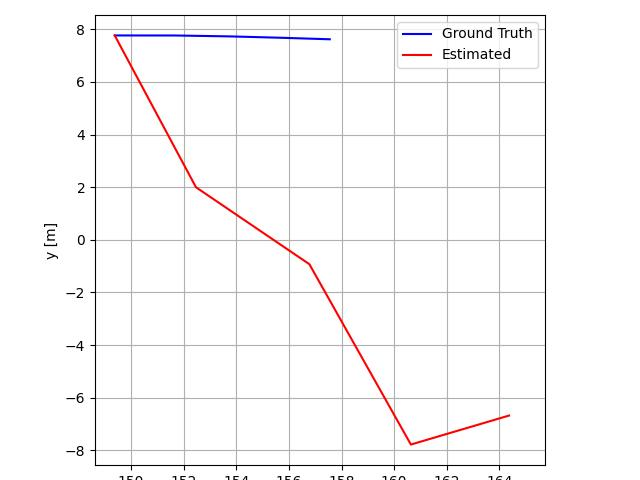
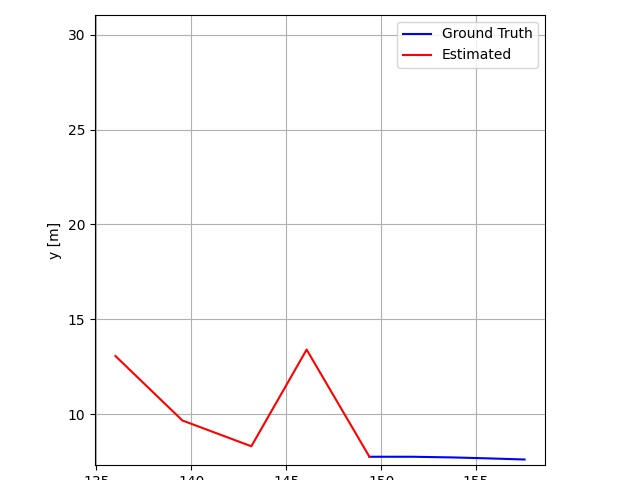
refactoring trajectory plotting

diff --git a/trajectoryPlotting.py b/trajectoryPlotting.py
@@ -8,20 +8,15 @@ from utils import *
 from parseData import *
 
 class Trajectory():
-    def __init__(self, timestamps, poses):
+    def __init__(self, timestamps, pose_transforms):
         '''
-        @param[in] timestamps np.ndarray of timestamps (N)
-        @param[in] poses np.ndarray of x,y,theta poses (N x 3)
+        @param[in] timestamps np.ndarray of sorted timestamps (N)
+        @param[in] pose_matrices np.ndarray of transformation matrices (N x 3 x 3)
         '''
+        assert timestamps.shape[0] == pose_transforms.shape[0], "first axis of timestamps and pose_transforms must be same length"
+
         self.timestamps = np.array(timestamps)
-        self.poses = np.array(poses)
-        x = self.poses[-1, 0]
-        y = self.poses[-1, 1]
-        theta = self.poses[-1, 2]
-        first_pose_matrix_gt = np.array([[np.cos(theta), -np.sin(theta), x],
-                                        [np.sin(theta), np.cos(theta), y],
-                                        [0, 0, 1]])
-        self.pose_matrix = np.array([first_pose_matrix_gt]) # N x 3 x 3
+        self.pose_transforms = np.array(pose_transforms)
     
     '''
     Ax_1 + b = x_0
@@ -41,24 +36,28 @@ class Trajectory():
     [010]
     [001]
     '''
-    def appendRelativePose(self, t, dist, theta):
+    def appendRelativePoseTransform(self, t, R, t):
         # Add to timestamps
         self.timestamps = np.append(self.timestamps, t)
+
+
         
         # not sure im computing p_{t+1} correctly given A, h
         # Get all the relevant transform variables
-        # print(f"theta: {transf_th:.04f}, dx: {transf_x:.04f}, dy: {transf_y:.04f}")
+        transf_th = float(np.arctan2(A[0,0], A[1,0]))
+        transf_x = float(h[0])
+        transf_y = float(h[1])
+        print(f"theta: {transf_th:.04f}, dx: {transf_x:.04f}, dy: {transf_y:.04f}")
 
         # Previous pose x y theta
         x, y, th = self.poses[-1,:]
         last_pose_matrix = self.pose_matrix[-1, :, :]
-
         new_transform = np.block([[A,               h],
-                                  [np.zeros((1,2)), np.ones((1,1))]])
-        new_pose_matrix = new_transform @ last_pose_matrix
+                                    [np.zeros((1,2)), np.ones((1,1))]])
+        new_pose_matrix = np.linalg.inv(new_transform) @ last_pose_matrix
         self.pose_matrix = np.concatenate((self.pose_matrix,
                                         np.expand_dims(new_pose_matrix, axis=0)),
-                                          axis = 0)
+                                            axis = 0)
         
         
         # Convert from relative pose wrt to current robot position to absolute pose
@@ -75,41 +74,32 @@ class Trajectory():
         self.poses = np.vstack((self.poses, np.array([x_p, y_p, th_p])))
 
         print(f"Time {t}: [{x_p:.2f},{y_p:.2f},{th_p:.2f}]")
-    
-    def getPoseAtTime(self, times):
-        '''
-        @brief Given timestamps, return the pose at that time using cubic interpolation
-        @param[in] t float or np.ndarray of timestamps
-        '''
-        try:
-            self.interpX = scipy.interpolate.interp1d(self.timestamps, self.poses[:,0], kind='cubic', bounds_error=False)
-            self.interpY = scipy.interpolate.interp1d(self.timestamps, self.poses[:,1], kind='cubic', bounds_error=False)
-            self.interpTH = scipy.interpolate.interp1d(self.timestamps, self.poses[:,1], kind='cubic', bounds_error=False)
-            return np.vstack((self.interpX(times), self.interpY(times), self.interpTH(times))).T
-        except:
-            print("Warning: Could not interpolate trajectory")
-            poses = np.zeros((len(times), 3))
-            for i,t in enumerate(times):
-                poses[i,:] = self.poses[np.argmin(np.abs(self.timestamps - t))]
-            return poses
 
-    def plotTrajectory(self, block=False):
-        fig = plt.figure()
-        ax = fig.add_subplot()
-        ax.set_xlabel('x [m]')
-        ax.set_ylabel('y [m]')
-        ax.grid(True)
-        # ax.set_aspect('equal', adjustable='box')
-        fig.canvas.draw()
-        if not block:
-            plt.show(block=False)
-        ax.plot(self.poses[:,0], self.poses[:,1], 'r-', label='Trajectory')
-        ax.legend()
-        plt.pause(0.1)
-        if block:
-            plt.show(block=True)
+    def getPoseTransformsAtTimes(self, times):
+        '''
+        @brief Given timestamps, return the recorded pose transforms at the closest timestamps
+        @param[in] times np.ndarray of sorted timestamps
+        '''
+        # TODO: Vectorize
+        pose_tranforms = np.zeros((len(times), 3, 3))
+        for i,t in enumerate(times):
+            pose_tranforms[i,:,:] = self.pose_transforms[np.argmin(np.abs(self.timestamps - t))]
+        return pose_tranforms
 
-def getGroundTruthTrajectory(gtPath : str):
+    def plotTrajectory(self, title='My Trajectory', savePath=False):
+        plt.clf()
+        poses = convertTransformToPose(self.pose_transforms)
+        plt.plot(poses[:,0], poses[:,1], 'b-')
+        plt.xlabel('x [m]')
+        plt.ylabel('y [m]')
+        plt.grid(True)
+        plt.axis('square')
+        plt.title(title)
+        if savePath:
+            plt.savefig(savePath)
+        plt.show(block=True)
+
+def getGroundTruthTrajectory(gtPath):
     '''
     @brief Returns ground truth trajectory given radar_odometry.csv
     @param[in] gtPath Path to ground truth file
@@ -134,9 +124,10 @@ def getGroundTruthTrajectory(gtPath : str):
             gt_poses.append([x,y,th])
     gt_timestamps = np.array(gt_timestamps)
     gt_poses = np.array(gt_poses)
-    return Trajectory(gt_timestamps, gt_poses)
+    gt_pose_transforms = convertPoseToTransform(gt_poses)
+    return Trajectory(gt_timestamps, gt_pose_transforms)
 
-def getGroundTruthTrajectoryGPS(gtPath : str):
+def getGroundTruthTrajectoryGPS(gtPath):
     '''
     @brief Returns ground truth trajectory given gps.csv
     @param[in] gtPath Path to ground truth file
@@ -155,16 +146,18 @@ def getGroundTruthTrajectoryGPS(gtPath : str):
             gt_poses.append([x,y,0])
     gt_timestamps = np.array(gt_timestamps)
     gt_poses = np.array(gt_poses)
-    return Trajectory(gt_timestamps, gt_poses)
+    gt_pose_transforms = convertPoseToTransform(gt_poses)
+    return Trajectory(gt_timestamps, gt_pose_transforms)
 
-def computeRMSE(gtPoses, estPoses):
+def computePosesRMSE(gtPoses, estPoses):
     '''
     @brief Compute the Root Mean Square Error between the prediction and the actual poses
     '''
-    rmse = np.sqrt(np.mean((np.linalg.norm(gtPoses[:,:-1] - estPoses[:,:-1], axis=-1))**2))
+    euclidean_err = np.linalg.norm(gtPoses[:,:-1] - estPoses[:,:-1], axis=-1)
+    rmse = np.sqrt(np.mean(euclidean_err**2))
     return rmse
 
-def plotGtAndEstTrajectory(gtTraj, estTraj, title, savePath=None):
+def plotGtAndEstTrajectory(gtTraj, estTraj, title='GT and EST Trajectories', savePath=None):
     '''
     @brief Plot ground truth trajectory and estimated trajectory
     @param[in] gtTrajectory Ground truth trajectory
@@ -174,24 +167,21 @@ def plotGtAndEstTrajectory(gtTraj, estTraj, title, savePath=None):
     plt.clf()
     earliestTimestamp = estTraj.timestamps[0]
     latestTimestamp = estTraj.timestamps[-1]
-    timestamps = [x for x in gtTraj.timestamps if earliestTimestamp <= x <= latestTimestamp]
-    gtPoses = gtTraj.getPoseAtTime(timestamps)
-    #estPoses = estTraj.getPoseAtTime(timestamps)
-    estPosesX = estTraj.pose_matrix[:, 0, 2] # slices all X positions, matrix[0,2]
-    estPosesY = estTraj.pose_matrix[:, 1, 2]
+    timestamps = [t for t in gtTraj.timestamps if earliestTimestamp <= t <= latestTimestamp]
+    gtPoseTransforms = gtTraj.getPoseTransformsAtTimes(timestamps)
+    gtPoses = convertTransformToPose(gtPoseTransforms)
+    estPoseTransforms = estTraj.getPoseTransformsAtTimes(timestamps)
+    estPoses = convertTransformToPose(estPoseTransforms)
     plt.plot(gtPoses[:,0], gtPoses[:,1], 'b-', label='Ground Truth')
-    #plt.plot(estPoses[:,0], estPoses[:,1], 'r-', label='Estimated')
-    plt.plot(estPosesX, estPosesY, 'r-', label='Estimated')
+    plt.plot(estPoses[:,0], estPoses[:,1], 'r-', label='Estimated')
     plt.xlabel('x [m]')
     plt.ylabel('y [m]')
     plt.grid(True)
     plt.legend()
     plt.axis('square')
-    #plt.title(f'{title}: RMSE={computeRMSE(gtPoses, estPoses):.2f}')
-    #plt.title(f'{title}: RMSE={computeRMSE(gtPoses, np.hstack((estPosesX, estPosesY))):.2f}')
+    plt.title(f'{title}: RMSE={computePosesRMSE(gtPoses, estPoses):.2f}')
     if savePath:
         plt.savefig(savePath)
-    # plt.show(block=False)
     
 if __name__ == "__main__":
     datasetName = sys.argv[1] if len(sys.argv) > 1 else "tiny"
@@ -203,17 +193,20 @@ if __name__ == "__main__":
     if datasetName == "tiny":
         gtPath = os.path.join("data", datasetName, "gps", "gps.csv")
         gtTraj = getGroundTruthTrajectoryGPS(gtPath)
-        gtTraj.plotTrajectory(block=True)
+        gtTraj.plotTrajectory()
 
     # radar odometry ground truth
     gtPath = os.path.join("data", datasetName, "gt", "radar_odometry.csv")
     gtTraj = getGroundTruthTrajectory(gtPath)
-    gtTraj.plotTrajectory(block=True)
+    gtTraj.plotTrajectory()
+
     keyframe_timestamps = np.arange(gtTraj.timestamps[0], gtTraj.timestamps[-1], (gtTraj.timestamps[-1]-gtTraj.timestamps[0]) / 1000)
-    estArr = gtTraj.getPoseAtTime(keyframe_timestamps)
+    estPoseTransforms = gtTraj.getPoseTransformsAtTimes(keyframe_timestamps)
+    estPoses = convertTransformToPose(estPoseTransforms)
     noise = np.random.multivariate_normal(mean=(.01,.05),cov=np.array([[.8,.2],[.2,.8]])*1e-2,size=(keyframe_timestamps.shape[0]))
     noise = np.cumsum(noise,axis=0) # integration
-    estArr[:,:2] += noise
-    estTraj = Trajectory(keyframe_timestamps, estArr)
+    estPoses[:,:2] += noise
+    estPoseTransforms = convertPoseToTransform(estPoses)
+    estTraj = Trajectory(keyframe_timestamps, estPoseTransforms)
     plotGtAndEstTrajectory(gtTraj, estTraj, datasetName)
     plt.show(block=True)

diff --git a/utils.py b/utils.py
@@ -23,45 +23,49 @@ def normalize_angles(th):
     """
     return (th + np.pi) % (2 * np.pi) - np.pi
 
-def abs_to_rel_pose(rob_pose, rel_pose):
-    """
-    rob_pose wrt to world
-    rel_pose wrt to world
-    return rel_pose wrt to rob
-    """
-    T = np.array(
-        [
-            [np.cos(rob_pose[2]), -np.sin(rob_pose[2]), rob_pose[0]],
-            [np.sin(rob_pose[2]), np.cos(rob_pose[2]), rob_pose[1]],
-            [0, 0, 1],
-        ]
-    )
+def getRotationMatrix(th, degrees=False):
+    if degrees:
+        th = np.deg2rad(th)
+    cth = np.cos(th)
+    sth = np.sin(th)
+    R = np.array([[cth, -sth], [sth, cth]])
 
-    xy = np.linalg.inv(T) @ np.array([rel_pose[0], rel_pose[1], 1])
-    th = normalize_angles(rel_pose[2] - rob_pose[2])
-    rel_pose = np.array([float(xy[0]), float(xy[1]), th])
-    return rel_pose
+    return R
 
+def convertPoseToTransform(poses):
+    '''
+    @param[in] poses np.ndarray of (3,) or (3 x N)
+    @return pose_transforms np.ndarray of (3 x 3 x N)
+    '''
+    if type(poses) == list:
+        poses = np.array(poses)
+    if len(poses.shape) == 1:
+        poses = np.expand_dims(poses, axis=0)
+    xs = poses[:,0]
+    ys = poses[:,1]
+    ths = poses[:,2]
+    cths = np.cos(ths)
+    sths = np.sin(ths)
+    pose_transform = np.zeros((len(ths),3,3))
+    pose_transform[:,0,0] = cths
+    pose_transform[:,0,1] = -sths
+    pose_transform[:,1,0] = sths
+    pose_transform[:,1,1] = cths
+    pose_transform[:,0,2] = xs
+    pose_transform[:,1,2] = ys
+    pose_transform[:,2,2] = 1
+    return pose_transform
 
-def rel_to_abs_pose(rob_pose, rel_pose):
-    """
-    rob_pose wrt to world
-    rel_pose wrt to robot
-    return rel_pose wrt to world
-    """
-    rob_x, rob_y, rob_th = rob_pose[0], rob_pose[1], rob_pose[2]
-    cth = np.cos(rob_th)
-    sth = np.sin(rob_th)
-
-    T = np.array([
-        [cth, -sth, rob_x],
-        [sth, cth, rob_y],
-        [0, 0, 1],
-    ])
-
-    rel_x, rel_y, rel_th = rel_pose[0], rel_pose[1], rel_pose[2]
-    xy_homo = T @ np.array([rel_x, rel_y, 1]).astype(float)
-    th = normalize_angles(rel_th + rob_th)
-
-    abs_pose = np.array([xy_homo[0], xy_homo[1], th])
-    return abs_pose
+def convertTransformToPose(pose_transforms):
+    '''
+    @param[in] pose_transforms np.ndarray of (3 x 3) or (3 x 3 x N)
+    @return poses np.ndarray of (3 x N)
+    '''
+    if type(pose_transforms) == list:
+        pose_transforms = np.array(pose_transforms)
+    if len(pose_transforms.shape) == 2:
+        pose_transforms = np.expand_dims(pose_transforms, axis=0)
+    ths = np.arctan2(pose_transforms[:,1,0], pose_transforms[:,0,0])
+    xs = pose_transforms[:,0,2]
+    ys = pose_transforms[:,1,2]
+    return np.stack([xs, ys, ths], axis=1)

diff --git a/getTransformKLT.py b/getTransformKLT.py
@@ -328,7 +328,7 @@ if __name__ == "__main__":
     gtTraj = getGroundTruthTrajectory(gtTrajPath)
     initTimestamp = radarImgPathToTimestamp(imgPathArr[startImgInd])
     estTraj = Trajectory([initTimestamp],
-                         [*gtTraj.getPoseAtTime(initTimestamp)])
+                         [*gtTraj.getPoseTransformsAtTimes(initTimestamp)])
 
     good_old = None
     for imgNo in range(startImgInd + 1, nImgs):
@@ -392,7 +392,7 @@ if __name__ == "__main__":
 
             # Plot Trajectories
             timestamp = radarImgPathToTimestamp(imgPathArr[imgNo])
-            estTraj.appendRelativePose(timestamp, R, h)
+            estTraj.appendRelativePoseTransform(timestamp, R, h)
             toSaveTrajPath = os.path.join(trajSavePath, f"{imgNo:04d}.jpg")
             plotGtAndEstTrajectory(gtTraj,
                                    estTraj,

diff --git a/genFakeData.py b/genFakeData.py
@@ -1,6 +1,6 @@
-from cProfile import label
 import numpy as np
 import matplotlib.pyplot as plt
+from utils import getRotationMatrix
 
 from parseData import RANGE_RESOLUTION_CART_M
 
@@ -86,22 +86,12 @@ def generateFakeCorrespondences(srcCoord=None,
         n_points = srcCoord.shape[0]
 
     theta_deg = np.random.random() * theta_max_deg
-    R = getRotationMatrix(theta_deg)
+    R = getRotationMatrix(theta_deg, degrees=True)
     h = generateTranslationVector(max_translation_m)
 
     targetCoord = transformCoords(srcCoord, R, h)
 
     return srcCoord, targetCoord, theta_deg, h
-
-
-def getRotationMatrix(theta_deg):
-    th = np.deg2rad(theta_deg)
-
-    cth = np.cos(th)
-    sth = np.sin(th)
-    R = np.array([[cth, -sth], [sth, cth]])
-
-    return R
 
 
 def addNoise(data, variance=2.5):

diff --git a/outlierRejection.py b/outlierRejection.py
@@ -4,7 +4,7 @@ from parseData import RANGE_RESOLUTION_CART_M  # m per px
 import networkx as nx
 from scipy.spatial.distance import cdist
 
-from genFakeData import generateFakeFeatures, getRotationMatrix, generateFakeCorrespondences, plotFakeFeatures
+from genFakeData import generateFakeCorrespondences, plotFakeFeatures
 
 # TODO: Tune this
 DIST_THRESHOLD_M = 2.5  # why is the variance so fking high
